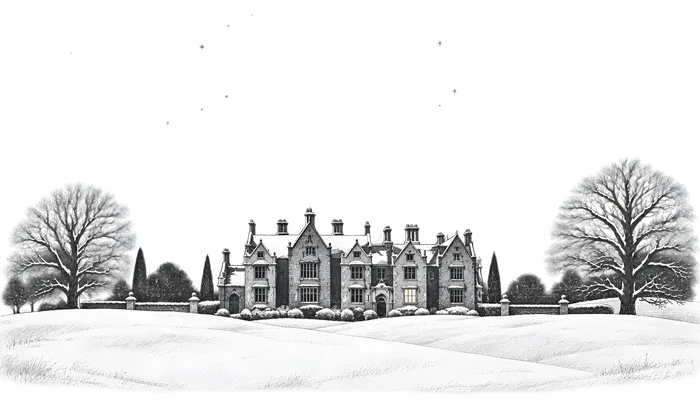
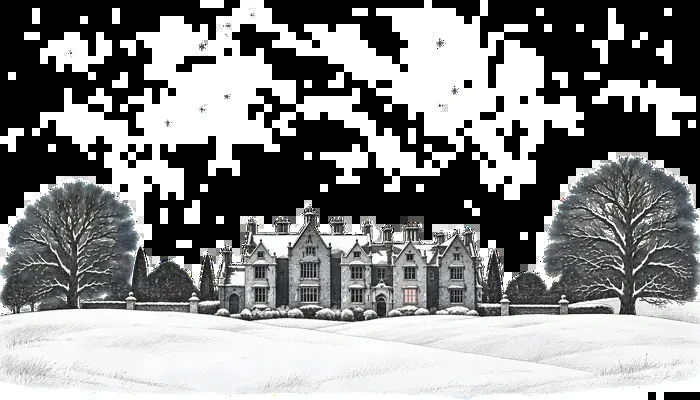
Appendix D questions in the side column; Aldous and Folding updates
How Attention Works: each note in Appendix D is now a row under a
hairline. Its question sits in the side column in grey small
capitals, and the text wraps around the picture at the right.

Also in this push, from other sessions and approved by Pundir: a new
manor picture for Who Killed Aldous Finch? with its page and the
index, and the hero change on Folding a Protein, Folding a Shirt.

Claude-Session: https://claude.ai/code/session_0199Xr6X4EwdvUksatprpWTW

diff --git a/A-Salon-of-Witnesses/how-attention-works-in-a-transformer.html b/A-Salon-of-Witnesses/how-attention-works-in-a-transformer.html
@@ -402,18 +402,20 @@ p.has-thumb { display: flow-root; }
 .fig .t2-sum svg.sv-one { max-width: 20rem; margin: 0 auto; }
 .gm-move { stroke: var(--ink-soft); stroke-width: 1.2; stroke-dasharray: 2 3; }
 .gm-head-m { fill: var(--ink-soft); }
-#reading + .leaf p, #advanced + .leaf p, #sources + .leaf p { font-size: .72rem; line-height: 1.45; }
-/* Appendix D: each note has a question for a heading, and the model's scratch work is set off from the text. */
-#advanced + .leaf p.adv-q { font-size: .8rem; font-weight: 600; color: var(--ink); margin: 1.5rem 0 .4rem; }
-#advanced + .leaf p.adv-work { margin: 0 0 1rem 1.1rem; padding-left: .8rem; border-left: 1px solid var(--ink-faint); font-style: italic; }
+#reading + .leaf p, #advanced + .leaf p, .adv-note .col p, #sources + .leaf p { font-size: .72rem; line-height: 1.45; }
+/* Appendix D: each note is a row under a hairline. Its question sits in the side column in grey small capitals. */
+.adv-note { margin-top: 1.6rem; padding-top: .9rem; border-top: 1px solid var(--rule); }
+.adv-note p.adv-q { grid-column: 1; margin: 0; text-align: right; font-variant: small-caps; letter-spacing: .06em; font-size: .82rem; line-height: 1.45; color: var(--ink-soft); }
+.adv-note .adv-n { display: block; }
+.adv-note .col::after { content: ""; display: block; clear: both; }
+@media (max-width: 1000px) { .adv-note p.adv-q { text-align: left; margin: 0 0 .5rem; } }
+.adv-note p.adv-work { margin: 0 0 1rem 1.1rem; padding-left: .8rem; border-left: 1px solid var(--ink-faint); font-style: italic; }
 /* Appendix D: one small picture under each question. */
-#advanced + .leaf p.adv-fig { margin: .7rem 0 .9rem; }
-#advanced + .leaf p.adv-fig img { display: block; max-width: 100%; height: auto; }
-/* From 1001 px up the picture sits in the side column, level with the note's first paragraph. */
-@media (min-width: 1001px) {
-  #advanced + .leaf p.adv-fig { float: left; clear: left; width: var(--margin-col); margin: .25rem 0 0 calc(-1 * (var(--margin-col) + var(--gutter))); }
-  #advanced + .leaf p.adv-fig img { margin-left: auto; }
-  #advanced + .leaf p.adv-q { clear: both; }
+.adv-note p.adv-fig { margin: .7rem 0 .9rem; }
+.adv-note p.adv-fig img { display: block; max-width: 100%; height: auto; }
+/* From 561 px up the picture sits to the right of its note and the text wraps around it. On a phone it stays above the text. */
+@media (min-width: 561px) {
+  .adv-note p.adv-fig { float: right; clear: right; margin: .3rem 0 .6rem 1.4rem; }
 }
 /* Appendix D lists its sources as Who Learns Faster, a Toddler or a Chatbot? does: numbered, .45rem apart, each entry a full citation ending in its address. The type is this appendix's small type. */
 ol.refs { margin: 0 0 1rem; padding: 0 0 0 1.8rem; font-size: .72rem; line-height: 1.45; }
@@ -1037,30 +1039,42 @@ p.endlink.endlink.endlink a:hover,p.endlink.endlink.endlink a:focus-visible{colo
 </div>
 <div class="leaf"><div class="col">
   <p>For the curious reader, this appendix covers a few advanced topics about transformers that we left out of the basic introduction above.</p>
+</div></div>
 
-  <p class="adv-q">1.&nbsp;How does a reply end?</p>
+<div class="leaf adv-note">
+  <p class="adv-q"><span class="adv-n">1.</span> How does a reply end?</p>
+  <div class="col">
   <p class="adv-fig"><img src="img/appendix-d-1-reply-ends.webp" width="189" height="37" alt="A row of four tokens, Once, upon, a, time, followed by one darker token with no word in it." loading="lazy" decoding="async"></p>
   <p>A chatbot&rsquo;s reply is hundreds of tokens long, and the model guesses them one at a time. Type &ldquo;tell me a story&rdquo; and the model guesses &ldquo;Once&rdquo;. The software adds &ldquo;Once&rdquo; to the text and runs the model again, and the next guess is &ldquo;upon&rdquo;.</p>
   <p>Researchers call this loop <strong>autoregressive</strong> generation. The word comes from statistics. A regression predicts one number from other numbers. An autoregression predicts the next value in a series from the earlier values of the same series, and &ldquo;auto&rdquo; is Greek for &ldquo;self&rdquo;. A forecaster who predicts tomorrow&rsquo;s temperature from the last seven days is running one. A chatbot does the same with text. It predicts the next token from the tokens so far, and each token it produces joins the series.</p>
   <p>Nothing in the model stops this loop. Every run gives a probability to every token in the vocabulary, for as long as the software keeps running it. So the builders put one special token in the vocabulary to mark an ending. <span class="nb">GPT-2</span> has 50,257 tokens, and the last one is the <strong>end-of-text token</strong>, written &lt;|endoftext|&gt;. In training it sat between documents, so the model learned to give it a high probability at the places where a text is finished. When that token is picked, the software stops the loop and hides the token from you.</p>
   <p>The software also stops the loop in two other cases. First, it sets a maximum number of new tokens, because every token costs time and money. A reply that reaches the maximum gets cut off in mid-sentence. Second, a programmer can give it a <strong>stop sequence</strong>, a piece of text such as &ldquo;User:&rdquo;. The software stops when that text appears, so the model does not go on to write your side of the conversation.</p>
+</div></div>
 
-  <p class="adv-q">2.&nbsp;What does a chatbot do when it &ldquo;reasons&rdquo;?</p>
+<div class="leaf adv-note">
+  <p class="adv-q"><span class="adv-n">2.</span> What does a chatbot do when it &ldquo;reasons&rdquo;?</p>
+  <div class="col">
   <p class="adv-fig"><img src="img/appendix-d-2-reasoning.webp" width="166" height="139" alt="Four small boxes of scratch work, each with an arrow to one box that holds the answer, 40,000." loading="lazy" decoding="async"></p>
   <p>A transformer does the same amount of work for every token. In <span class="nb">GPT-2</span> small that is 12 layers, for an easy guess and a hard one alike. Some questions take more steps than 12 layers can do. Ask how many balloons fit in a Boeing 747. The answer needs the size of the cabin, the size of a balloon, a division and a correction for the gaps.</p>
   <p>Around 2022, researchers found that a model answers such questions more accurately when it writes out its steps first. They called this <strong>chain of thought</strong>. Labs then trained models to write the steps without being asked, and those are today&rsquo;s <strong>reasoning models</strong>. Before the answer appears, a reasoning model writes scratch work, one token at a time, with the same autoregressive loop:</p>
   <p class="adv-work">The cabin holds about 900 cubic metres. A party balloon 30&nbsp;cm across holds about 14 litres. That gives about 64,000 balloons. Round balloons leave gaps, so about 40,000.</p>
   <p>Then it writes the answer you see. The tokens of the scratch work are called <strong>reasoning tokens</strong>. The app hides them or folds them under a &ldquo;thinking&rdquo; label.</p>
   <p>The scratch work helps because of attention. Each reasoning token goes into the KV cache like any other token. When the model guesses the final number, its Q can find &ldquo;900 cubic metres&rdquo; and &ldquo;14 litres&rdquo; in the cache. Each guess along the way is an easy one. Reasoning takes time, because a model may write thousands of tokens before the first word of its answer. It also costs money. Companies that charge by the token usually bill for reasoning tokens too, even when the app hides them from you.</p>
+</div></div>
 
-  <p class="adv-q">3.&nbsp;Can a model think for longer without writing more tokens?</p>
+<div class="leaf adv-note">
+  <p class="adv-q"><span class="adv-n">3.</span> Can a model think for longer without writing more tokens?</p>
+  <div class="col">
   <p class="adv-fig"><img src="img/appendix-d-3-looped.webp" width="142" height="176" alt="A stack of six layers with an arrow that loops from the top back to the bottom, marked times 4." loading="lazy" decoding="async"></p>
   <p>Reasoning tokens have two drawbacks. Each token needs a full run of the model. The model also has to put every step into words. The residual stream holds 768 numbers, and a token is one pick from the vocabulary, so a token carries far less than the residual stream does. Researchers wanted to let a model do more steps before it picks a token, and to do that without making the model bigger.</p>
   <p>Their answer is to use the layers more than once. In <span class="nb">GPT-2</span> small, each of the 12 layers has its own matrices, and the residual stream passes through each layer once. A <strong>looped transformer</strong> sends the residual stream through the same layers several times. Six layers used four times do the work of 24 layers with the parameters of six. In some designs the number of passes changes with the question, so a hard question gets more passes.</p>
   <p>A looped transformer still writes one token at a time. It does more work on each token before the token comes out. Researchers call this work <strong>latent reasoning</strong>, because it stays in the residual stream. People can read reasoning tokens and check how a model reached its answer. Nobody can read latent reasoning that way. One model can use both kinds of reasoning.</p>
   <p>Looped transformers are also called <strong>recurrent depth</strong>. In September 2026, The Information reported that <a href="https://openai.com/index/gpt-6-astra/" target="_blank" rel="noopener">OpenAI&rsquo;s <span class="nb">GPT-6</span> Astra</a> uses recurrent depth. As we write in November 2026, OpenAI has not confirmed the report.</p>
+</div></div>
 
-  <p class="adv-q">4.&nbsp;Can attention get cheaper for long texts?</p>
+<div class="leaf adv-note">
+  <p class="adv-q"><span class="adv-n">4.</span> Can attention get cheaper for long texts?</p>
+  <div class="col">
   <p class="adv-fig"><img src="img/appendix-d-4-linear-attention.webp" width="182" height="85" alt="Six tokens, each joined to one wide bar, and one arrow from the bar to the next token." loading="lazy" decoding="async"></p>
   <p>In <a href="#attention">section 2.2</a>, each new token&rsquo;s Q was compared with every K in the KV cache. A text twice as long needs four times as many comparisons. <span class="nb">GPT-2</span> small reads up to 1,024 tokens. Chatbots in 2026 read hundreds of thousands of tokens, and attention is a large part of what that costs.</p>
   <p>The function that turns a head&rsquo;s scores into shares is called <strong>softmax</strong>. It raises the number <i>e</i> to the power of each score and divides by the total. That stretches the gaps between scores, so one strong match can take nearly the whole share. Softmax is also the reason the head has to visit every earlier token one by one.</p>

diff --git a/folding-a-protein-folding-a-shirt/folding-a-protein-folding-a-shirt.html b/folding-a-protein-folding-a-shirt/folding-a-protein-folding-a-shirt.html
@@ -180,6 +180,8 @@ a:hover{text-decoration-color:var(--ink)}
 .hero{margin:var(--s4) 0 var(--s3)}
 .hero-img{margin:0 auto;padding:0;max-width:min(23rem,100%)}
 .hero-img img{display:block;width:100%;height:auto}
+.hero-img{position:relative}
+.hero-img canvas{position:absolute;inset:0;width:100%;height:100%;visibility:hidden;pointer-events:none}
 .hero-text{max-width:calc(var(--measure) + 4rem)}
 h1{line-height:1.08;margin:0 0 .7rem;text-wrap:balance}
 .byline{color:var(--ink-soft);line-height:1.55;margin:0}
@@ -1124,6 +1126,184 @@ p.endlink.endlink.endlink a:hover,p.endlink.endlink.endlink a:focus-visible{colo
   </div>
 </footer>
 </div>
+<script>
+/* Hero shake. Every few seconds the robot arm in the hero drawing shudders for a moment and the cuff swings.
+   The still drawing stays in the page the whole time. A canvas sits on top of it only while it moves.
+   If anything is missing or fails, nothing happens and the still drawing is all a reader sees. */
+(function () {
+  "use strict";
+  try {
+    if (!window.matchMedia || window.matchMedia("(prefers-reduced-motion: reduce)").matches) { return; }
+    var fig = document.querySelector("figure.hero-img");
+    var hero = fig && fig.querySelector("img");
+    if (!hero) { return; }
+
+    // Motion settings. Angles are in degrees, times in seconds.
+    var A = 0.3, F = 10, TAU = 0.3;          // arm: size, speed, how fast it dies away
+    var S = 2, FS = 2.2, TAUS = 0.9, LAG = 0.08; // cuff swing
+    var PAUSE = 3000, FIRST = 1000;          // milliseconds
+    var W = 1258, H = 1162;                  // the size all the maths is done in
+    var C1 = [1115, 722], P = [170, 508];    // arm joint and the pinch point of the cuff
+    var D2R = Math.PI / 180;
+
+    var canvas = null, gl = null, uTheta = null, uPhi = null;
+    var ready = false, dead = false, onScreen = false, tabVisible = !document.hidden;
+    var raf = 0, timer = 0, t0 = 0;
+
+    function angles(t) {
+      var th = A * Math.exp(-t / TAU) * Math.sin(2 * Math.PI * F * t);
+      var ph = 0;
+      if (t > LAG) { ph = S * Math.exp(-(t - LAG) / TAUS) * Math.sin(2 * Math.PI * FS * (t - LAG)); }
+      return [th, ph];
+    }
+    // The shake is over when both envelopes are under 0.005 degrees.
+    function finished(t) {
+      var e1 = A * Math.exp(-t / TAU);
+      var e2 = S * Math.exp(-Math.max(0, t - LAG) / TAUS);
+      return t > LAG && e1 < 0.005 && e2 < 0.005;
+    }
+
+    var VS = "attribute vec2 a;void main(){gl_Position=vec4(a,0.0,1.0);}";
+    var FS_SRC = [
+      "precision highp float;",
+      "uniform sampler2D img;uniform sampler2D wt;",
+      "uniform vec2 res;uniform vec2 size;uniform vec2 c1;uniform vec2 pp;",
+      "uniform float theta;uniform float phi;",
+      "vec2 rot(vec2 q,float a){float c=cos(a),s=sin(a);return vec2(c*q.x-s*q.y,s*q.x+c*q.y);}",
+      "void main(){",
+      "  vec2 uv=vec2(gl_FragCoord.x,res.y-gl_FragCoord.y)/res;",
+      "  vec2 p=uv*size;",
+      "  vec3 w=texture2D(wt,uv).rgb;",
+      "  vec2 q1=p-c1;vec2 q2=p-pp;",
+      "  vec2 d=w.r*(rot(q1,theta)-q1)+w.b*(rot(q2,phi)-q2);",
+      "  gl_FragColor=vec4(texture2D(img,(p-d)/size).rgb,1.0);",
+      "}"
+    ].join("\n");
+
+    function shader(type, src) {
+      var s = gl.createShader(type);
+      gl.shaderSource(s, src); gl.compileShader(s);
+      if (!gl.getShaderParameter(s, gl.COMPILE_STATUS)) { throw new Error("shader"); }
+      return s;
+    }
+    function texture(unit, image) {
+      gl.activeTexture(gl.TEXTURE0 + unit);
+      gl.bindTexture(gl.TEXTURE_2D, gl.createTexture());
+      gl.pixelStorei(gl.UNPACK_FLIP_Y_WEBGL, false);
+      gl.pixelStorei(gl.UNPACK_PREMULTIPLY_ALPHA_WEBGL, false);
+      gl.texImage2D(gl.TEXTURE_2D, 0, gl.RGBA, gl.RGBA, gl.UNSIGNED_BYTE, image);
+      gl.texParameteri(gl.TEXTURE_2D, gl.TEXTURE_MIN_FILTER, gl.LINEAR);
+      gl.texParameteri(gl.TEXTURE_2D, gl.TEXTURE_MAG_FILTER, gl.LINEAR);
+      gl.texParameteri(gl.TEXTURE_2D, gl.TEXTURE_WRAP_S, gl.CLAMP_TO_EDGE);
+      gl.texParameteri(gl.TEXTURE_2D, gl.TEXTURE_WRAP_T, gl.CLAMP_TO_EDGE);
+    }
+    function draw(thDeg, phDeg) {
+      gl.uniform1f(uTheta, thDeg * D2R); gl.uniform1f(uPhi, phDeg * D2R);
+      gl.drawArrays(gl.TRIANGLE_STRIP, 0, 4);
+    }
+
+    function hide() { if (canvas) { canvas.style.visibility = "hidden"; } }
+    function stop() {
+      if (raf) { cancelAnimationFrame(raf); raf = 0; }
+      if (timer) { clearTimeout(timer); timer = 0; }
+      hide();
+    }
+    function enabled() { return ready && !dead && onScreen && tabVisible; }
+
+    function frame(now) {
+      raf = 0;
+      if (!enabled()) { stop(); return; }
+      var t = (now - t0) / 1000;
+      if (t < 0) { t = 0; }
+      if (finished(t)) { hide(); schedule(PAUSE); return; }
+      var a = angles(t);
+      draw(a[0], a[1]);
+      raf = requestAnimationFrame(frame);
+    }
+    function shake() {
+      timer = 0;
+      if (!enabled()) { return; }
+      draw(0, 0);
+      canvas.style.visibility = "visible";
+      t0 = performance.now();
+      raf = requestAnimationFrame(frame);
+    }
+    function schedule(ms) {
+      if (timer) { clearTimeout(timer); }
+      timer = enabled() ? setTimeout(shake, ms) : 0;
+    }
+    // Called whenever the hero scrolls into or out of view, or the tab is hidden or shown.
+    function update() {
+      if (!enabled()) { stop(); }
+      else if (!raf && !timer) { schedule(FIRST); }
+    }
+
+    function setup() {
+      var src = hero.currentSrc || hero.src;
+      var img = new Image(), wimg = new Image(), left = 2;
+      function loaded() {
+        left -= 1;
+        if (left > 0) { return; }
+        try {
+          if (!img.naturalWidth || !wimg.naturalWidth) { return; }
+          canvas = document.createElement("canvas");
+          canvas.setAttribute("aria-hidden", "true");
+          canvas.width = img.naturalWidth; canvas.height = img.naturalHeight;
+          gl = canvas.getContext("webgl", { preserveDrawingBuffer: true, antialias: false, alpha: false, premultipliedAlpha: false });
+          if (!gl) { canvas = null; return; }
+          var pr = gl.createProgram();
+          gl.attachShader(pr, shader(gl.VERTEX_SHADER, VS));
+          gl.attachShader(pr, shader(gl.FRAGMENT_SHADER, FS_SRC));
+          gl.linkProgram(pr);
+          if (!gl.getProgramParameter(pr, gl.LINK_STATUS)) { throw new Error("link"); }
+          gl.useProgram(pr);
+          gl.bindBuffer(gl.ARRAY_BUFFER, gl.createBuffer());
+          gl.bufferData(gl.ARRAY_BUFFER, new Float32Array([-1, -1, 1, -1, -1, 1, 1, 1]), gl.STATIC_DRAW);
+          var loc = gl.getAttribLocation(pr, "a");
+          gl.enableVertexAttribArray(loc);
+          gl.vertexAttribPointer(loc, 2, gl.FLOAT, false, 0, 0);
+          texture(0, img); texture(1, wimg);
+          gl.uniform1i(gl.getUniformLocation(pr, "img"), 0);
+          gl.uniform1i(gl.getUniformLocation(pr, "wt"), 1);
+          gl.uniform2f(gl.getUniformLocation(pr, "res"), canvas.width, canvas.height);
+          gl.uniform2f(gl.getUniformLocation(pr, "size"), W, H);
+          gl.uniform2f(gl.getUniformLocation(pr, "c1"), C1[0], C1[1]);
+          gl.uniform2f(gl.getUniformLocation(pr, "pp"), P[0], P[1]);
+          uTheta = gl.getUniformLocation(pr, "theta"); uPhi = gl.getUniformLocation(pr, "phi");
+          gl.viewport(0, 0, canvas.width, canvas.height);
+          canvas.addEventListener("webglcontextlost", function (e) {
+            e.preventDefault(); dead = true; stop();
+          });
+          fig.appendChild(canvas);
+          ready = true;
+          update();
+        } catch (e) { dead = true; stop(); }
+      }
+      img.onload = loaded; wimg.onload = loaded;
+      img.src = src; wimg.src = "folding-art/00-hero-weights.webp";
+    }
+
+    function start() {
+      try {
+        if ("IntersectionObserver" in window) {
+          new IntersectionObserver(function (entries) {
+            onScreen = entries[entries.length - 1].isIntersecting; update();
+          }).observe(fig);
+        } else { onScreen = true; }
+        document.addEventListener("visibilitychange", function () {
+          tabVisible = !document.hidden; update();
+        });
+        setup();
+      } catch (e) { dead = true; stop(); }
+    }
+
+    // Wait until the page has loaded, then a little longer, so the first paint never waits on this.
+    function later() { setTimeout(start, 400); }
+    if (document.readyState === "complete") { later(); }
+    else { window.addEventListener("load", later); }
+  } catch (e) { /* the still drawing stays */ }
+})();
+</script>
 <!-- discoverability:analytics:start -->
 <script data-goatcounter="https://artificialminds.goatcounter.com/count" async src="//gc.zgo.at/count.js"></script>
 <!-- discoverability:analytics:end -->

diff --git a/A-Salon-of-Witnesses/who-killed-aldous-finch.html b/A-Salon-of-Witnesses/who-killed-aldous-finch.html
@@ -82,16 +82,18 @@
 
   /* the lamp in the lit window: the home page's lamp, stop for stop.
      Halo, pane glow and the light on the snow, each as centre, middle
-     and edge. */
-  --lamp-halo:rgba(239,233,221,.42);
-  --lamp-halo-mid:rgba(217,160,90,.22);
-  --lamp-halo-out:rgba(217,160,90,0);
-  --lamp-core:rgba(255,248,235,.92);
-  --lamp-core-mid:rgba(239,233,221,.55);
-  --lamp-core-out:rgba(239,233,221,0);
-  --lamp-cast:rgba(239,233,221,.3);
-  --lamp-cast-mid:rgba(217,160,90,.14);
-  --lamp-cast-out:rgba(217,160,90,0);
+     and edge. Since 15 November 2026 the stops are the red #c3261c on
+     white paper: 10 percent (249 233 232), 5 percent (252 244 243) and
+     60 percent (219 125 119). */
+  --lamp-halo:rgba(249,233,232,.42);
+  --lamp-halo-mid:rgba(219,125,119,.22);
+  --lamp-halo-out:rgba(219,125,119,0);
+  --lamp-core:rgba(252,244,243,.92);
+  --lamp-core-mid:rgba(249,233,232,.55);
+  --lamp-core-out:rgba(249,233,232,0);
+  --lamp-cast:rgba(249,233,232,.3);
+  --lamp-cast-mid:rgba(219,125,119,.14);
+  --lamp-cast-out:rgba(219,125,119,0);
 
   --serif:var(--family-house-text, "Iowan Old Style", "Palatino Linotype", Palatino, Georgia, serif);
   --sans:var(--family-house-label, -apple-system, BlinkMacSystemFont, "Segoe UI", "Helvetica Neue", Helvetica, Arial, sans-serif);
@@ -201,7 +203,7 @@ a:focus-visible{outline:2px solid var(--ink);outline-offset:2px}
    scaled onto the lit one, so it shows dark glass and light bars. It
    fades in as the lamp fades out, on the same count. It covers the glass
    and eight pixels of the drawing round it,
-   from 57.535% across and 71.835% down. The margin hides the yellow that
+   from 57.535% across and 71.835% down. The margin hides the pink that
    the smaller copies of the drawing blur past the glass, and the
    rounding of the pane's edge to whole screen pixels. */
 .pane{

diff --git a/index.html b/index.html
@@ -461,17 +461,19 @@ html.rm .sitemap-label{transition:none}
    and never take the pointer. */
 
 :root {
-  /* card 6: the live home page's lamp, stop for stop. Halo, pane glow and the
-     light on the snow, each as centre, middle and edge. */
-  --lamp-halo: rgba(239, 233, 221, 0.42);
-  --lamp-halo-mid: rgba(217, 160, 90, 0.22);
-  --lamp-halo-out: rgba(217, 160, 90, 0);
-  --lamp-core: rgba(255, 248, 235, 0.92);
-  --lamp-core-mid: rgba(239, 233, 221, 0.55);
-  --lamp-core-out: rgba(239, 233, 221, 0);
-  --lamp-cast: rgba(239, 233, 221, 0.3);
-  --lamp-cast-mid: rgba(217, 160, 90, 0.14);
-  --lamp-cast-out: rgba(217, 160, 90, 0);
+  /* card 6: the manor lamp. Halo, pane glow and the light on the snow, each
+     as centre, middle and edge. Since 15 November 2026 the stops are the
+     page's --red, #c3261c, on white paper: 10 percent (249 233 232), 5
+     percent (252 244 243) and 60 percent (219 125 119). */
+  --lamp-halo: rgba(249, 233, 232, 0.42);
+  --lamp-halo-mid: rgba(219, 125, 119, 0.22);
+  --lamp-halo-out: rgba(219, 125, 119, 0);
+  --lamp-core: rgba(252, 244, 243, 0.92);
+  --lamp-core-mid: rgba(249, 233, 232, 0.55);
+  --lamp-core-out: rgba(249, 233, 232, 0);
+  --lamp-cast: rgba(249, 233, 232, 0.3);
+  --lamp-cast-mid: rgba(219, 125, 119, 0.14);
+  --lamp-cast-out: rgba(219, 125, 119, 0);
 
   /* the red of the lights, #c3261c (the page's --red) at the alphas the
      lights use. If the page's --red changes, these change with it. */
